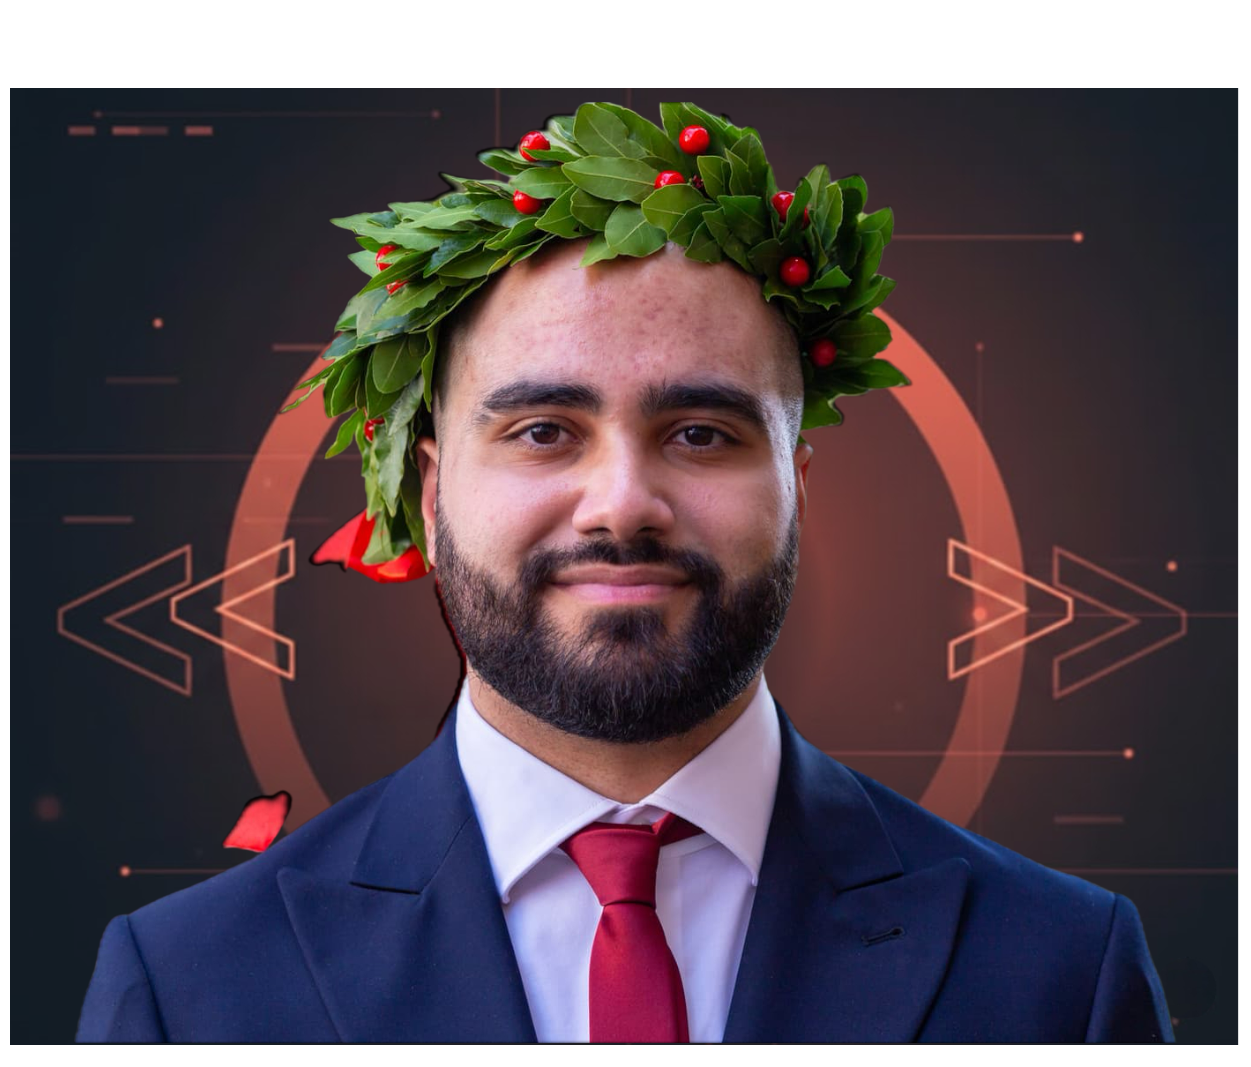
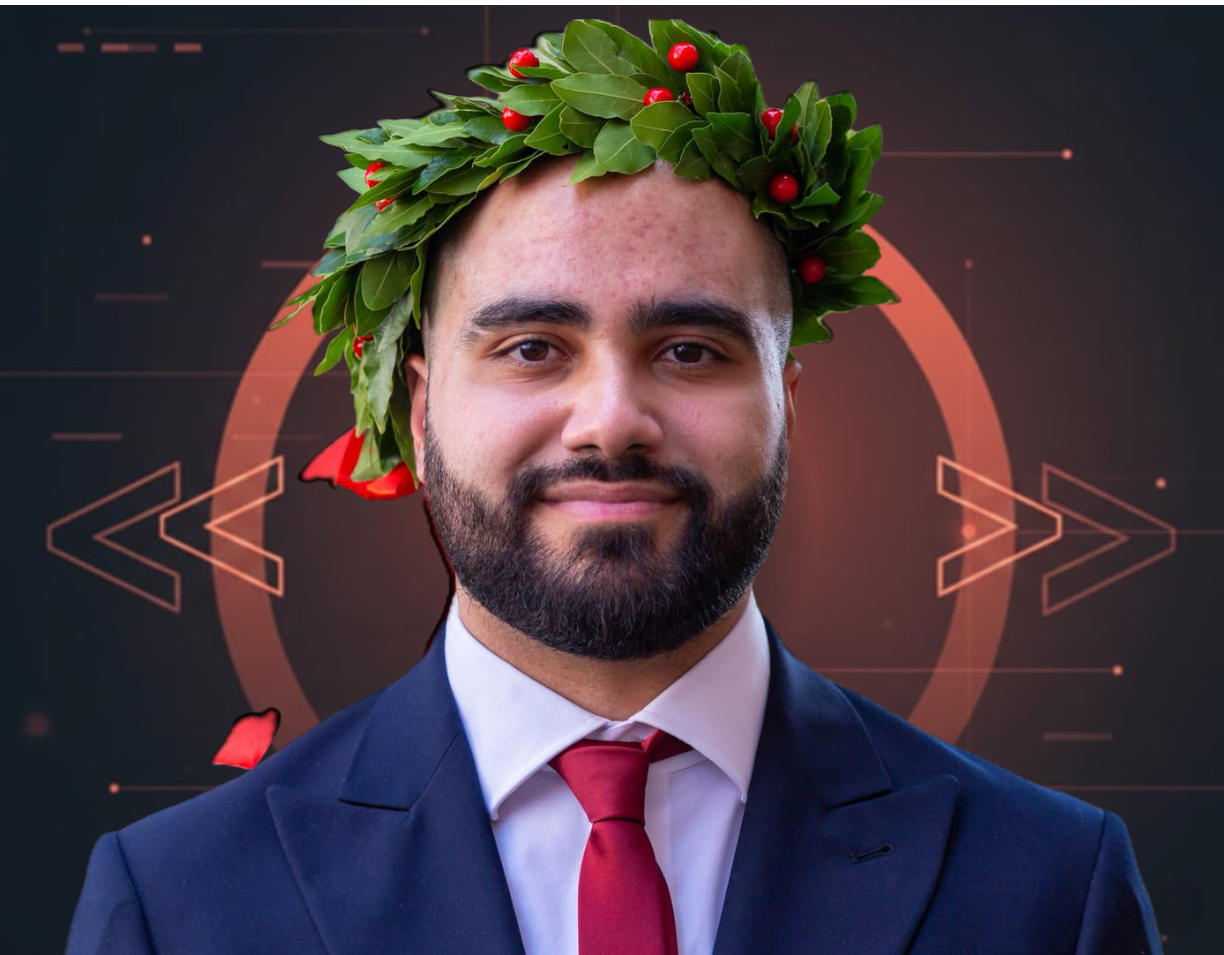
Added skills list

diff --git a/src/App.jsx b/src/App.jsx
@@ -1,32 +1,13 @@
-import { BrowserRouter, Routes, Route, Link } from 'react-router-dom'
-import myPhoto from './assets/images/my-photo.png'
+import { BrowserRouter, Link } from 'react-router-dom'
+import TopNavBar from './TopNavBar';
+import Home from './Home';
+
 function App() {
   return (
     <BrowserRouter>
       <div className='app'>
-        <nav className='top-navbar'>
-          <h2>Luca Baudo</h2>
-          <ul className='links'>
-            <li><Link to='/#home'>Home</Link></li>
-            <li><Link to='/#about'>About</Link></li>
-            <li><Link to='/#projects'>Projects</Link></li>
-            <li><Link to='/#contacts'>Contacts</Link></li>
-          </ul>
-        </nav>
-      </div>
-      <div className='home' id='home'>
-        <div className='presentation'>
-          <div className='personal-info'>
-            <span className='hello-span'>Hello <b className='point'>.</b></span>
-            <span className='personal-name'><div className='line'></div>I'm Luca</span>
-            <span className='personal-role'>Front-end Developer</span>
-            <section className='info-buttons'>
-              <button className='contact-me-btn'>Contact me</button>
-              <button className='resume-btn'>My resume</button>
-            </section>
-          </div>
-          <img src={myPhoto} alt="Personal Picture" />
-        </div>
+        <TopNavBar />
+        <Home />
       </div>
     </BrowserRouter>
   );

diff --git a/src/index.css b/src/index.css
@@ -18,11 +18,12 @@
   -moz-osx-font-smoothing: grayscale;
 
   --link-underline-padding: .5em;
-  --personal-photo-dimensions: 40vw;
+  --personal-photo-dimensions: 38vw;
 }
 
 body {
   margin: 0;
+  padding: 0;
   display: flex;
   place-items: center;
   justify-content: center;
@@ -94,11 +95,6 @@ h2 {
   width: calc(100% + var(--link-underline-padding) * 2);
 }
 
-.home{
-  width: 100vw;
-  margin-top: -3em;
-}
-
 .presentation{
   width: 100%;
   display: flex;
@@ -142,7 +138,7 @@ h2 {
 
 .presentation img{
   width: var(--personal-photo-dimensions);
-  height: calc(var(--personal-photo-dimensions) - 4vw);
+  height: calc(var(--personal-photo-dimensions) - 7vw);
   justify-self: end;
 }
 
@@ -180,4 +176,24 @@ h2 {
 
 .info-buttons .contact-me-btn:hover{
   background-color: rgb(255, 189, 68)
+}
+
+.skills-list{
+  font-family: sans-serif;
+  width: 100vw;
+  background-color: rgb(26, 41, 54);
+  height: 4em;
+  display: flex;
+  align-items: center;
+}
+
+.skills-list ul{
+  width: 100%;
+  display: flex;
+  justify-content: space-evenly;
+  align-items: center;
+  margin: 0;
+  list-style: none;
+  color: rgb(85, 85, 85);
+  font-weight: bold;
 }

diff --git a/src/Home.jsx b/src/Home.jsx
@@ -1,0 +1,31 @@
+import myPhoto from './assets/images/my-photo.png'
+
+function Home() {
+
+    return (<div className='home' id='home'>
+        <div className='presentation'>
+            <div className='personal-info'>
+                <span className='hello-span'>Hello <b className='point'>.</b></span>
+                <span className='personal-name'><div className='line'></div>I'm Luca</span>
+                <span className='personal-role'>Front-end Developer</span>
+                <section className='info-buttons'>
+                    <button className='contact-me-btn'>Contact me</button>
+                    <button className='resume-btn'>My resume</button>
+                </section>
+            </div>
+            <img src={myPhoto} alt="Personal Picture" />
+        </div>
+        <section className='skills-list'>
+            <ul>
+                <li>HTML5</li>
+                <li>CSS</li>
+                <li>JavaScript</li>
+                <li>React</li>
+                <li>Git</li>
+                <li>Github</li>
+            </ul>
+        </section>
+    </div>)
+}
+
+export default Home

diff --git a/src/TopNavBar.jsx b/src/TopNavBar.jsx
@@ -1,0 +1,17 @@
+import { React, useState } from 'react';
+import { Link } from 'react-router-dom';
+
+function TopNavBar() {
+
+    return (<nav className='top-navbar'>
+        <h2>Luca Baudo</h2>
+        <ul className='links'>
+            <li><Link to='/#home'>Home</Link></li>
+            <li><Link to='/#about'>About</Link></li>
+            <li><Link to='/#projects'>Projects</Link></li>
+            <li><Link to='/#contacts'>Contacts</Link></li>
+        </ul>
+    </nav>)
+}
+
+export default TopNavBar

diff --git a/index.html b/index.html
@@ -2,7 +2,7 @@
 <html lang="en">
   <head>
     <meta charset="UTF-8" />
-    <link rel="icon" type="image/svg+xml" href="/vite.svg" />
+    <link rel="icon" type="image/svg+xml" href="./src/assets/images/favicon.png" />
     <meta name="viewport" content="width=device-width, initial-scale=1.0" />
     <title>Luca Baudo's Portfolio</title>
   </head>
